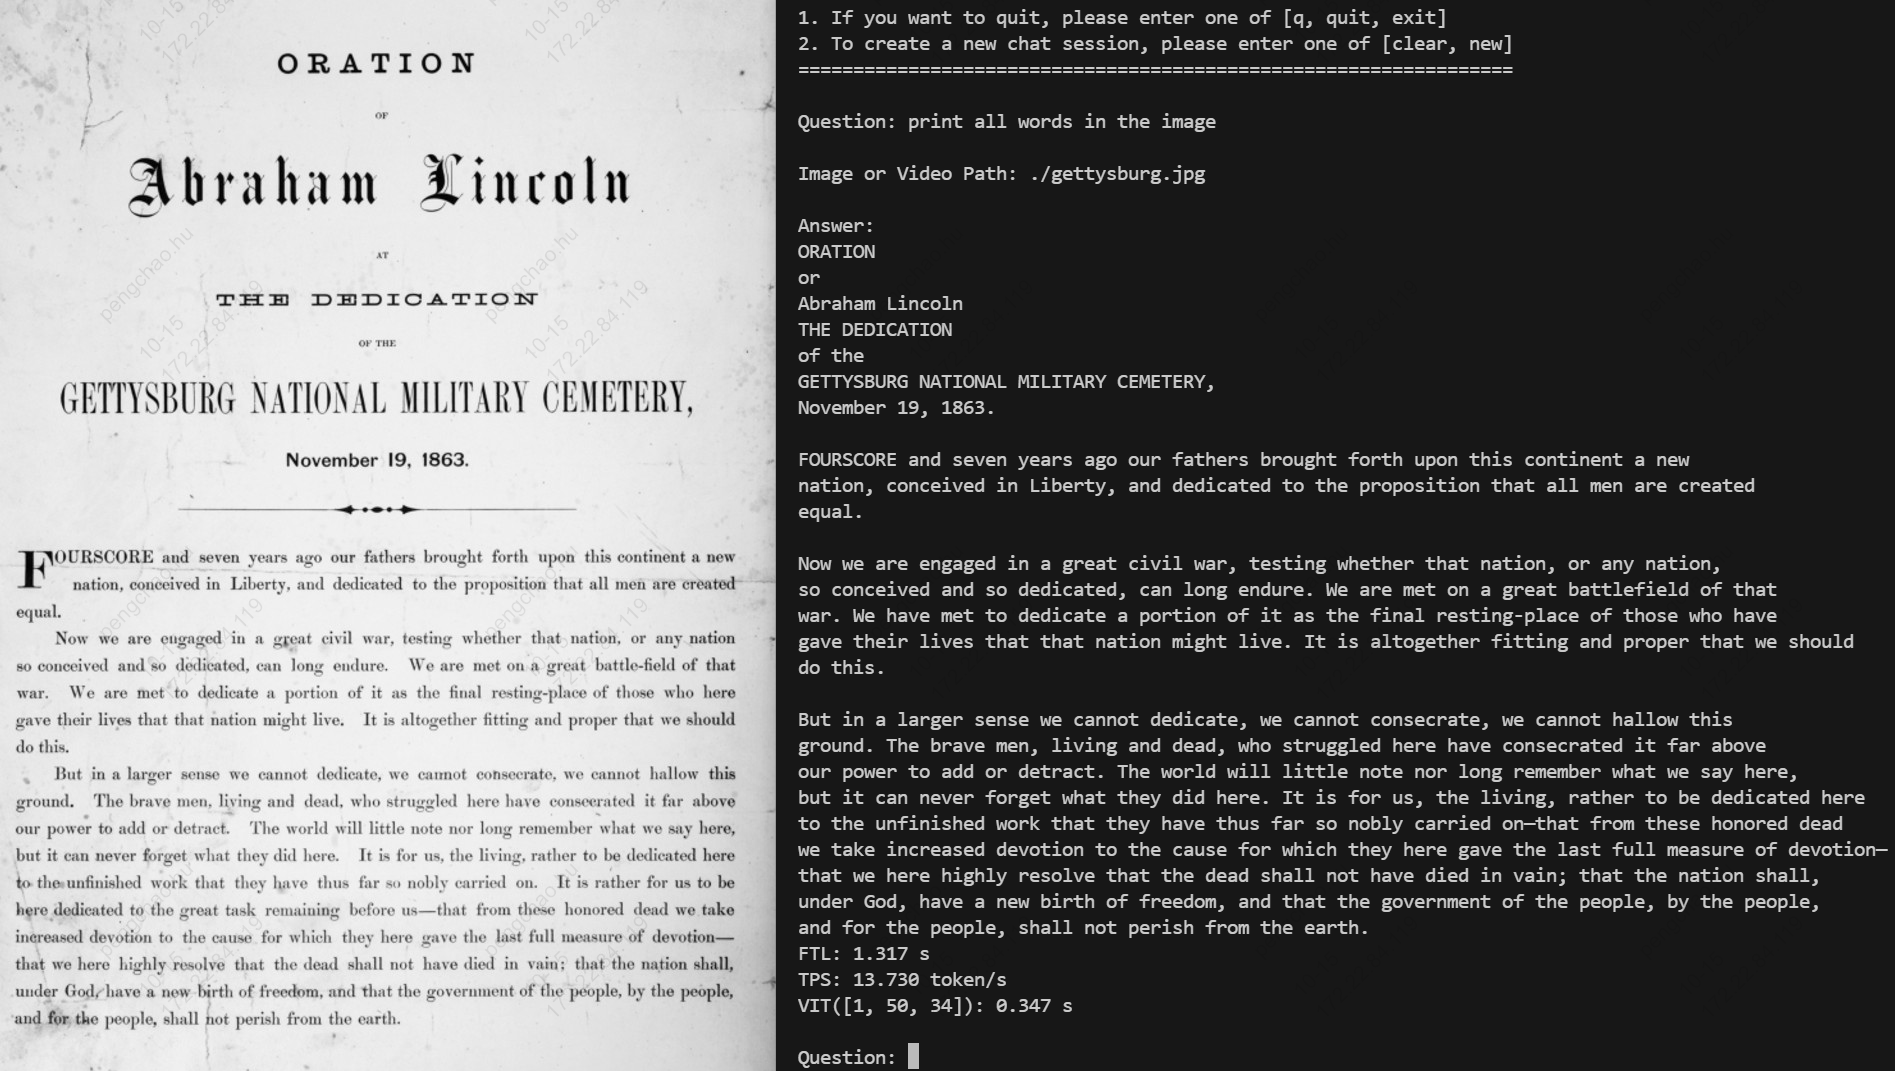
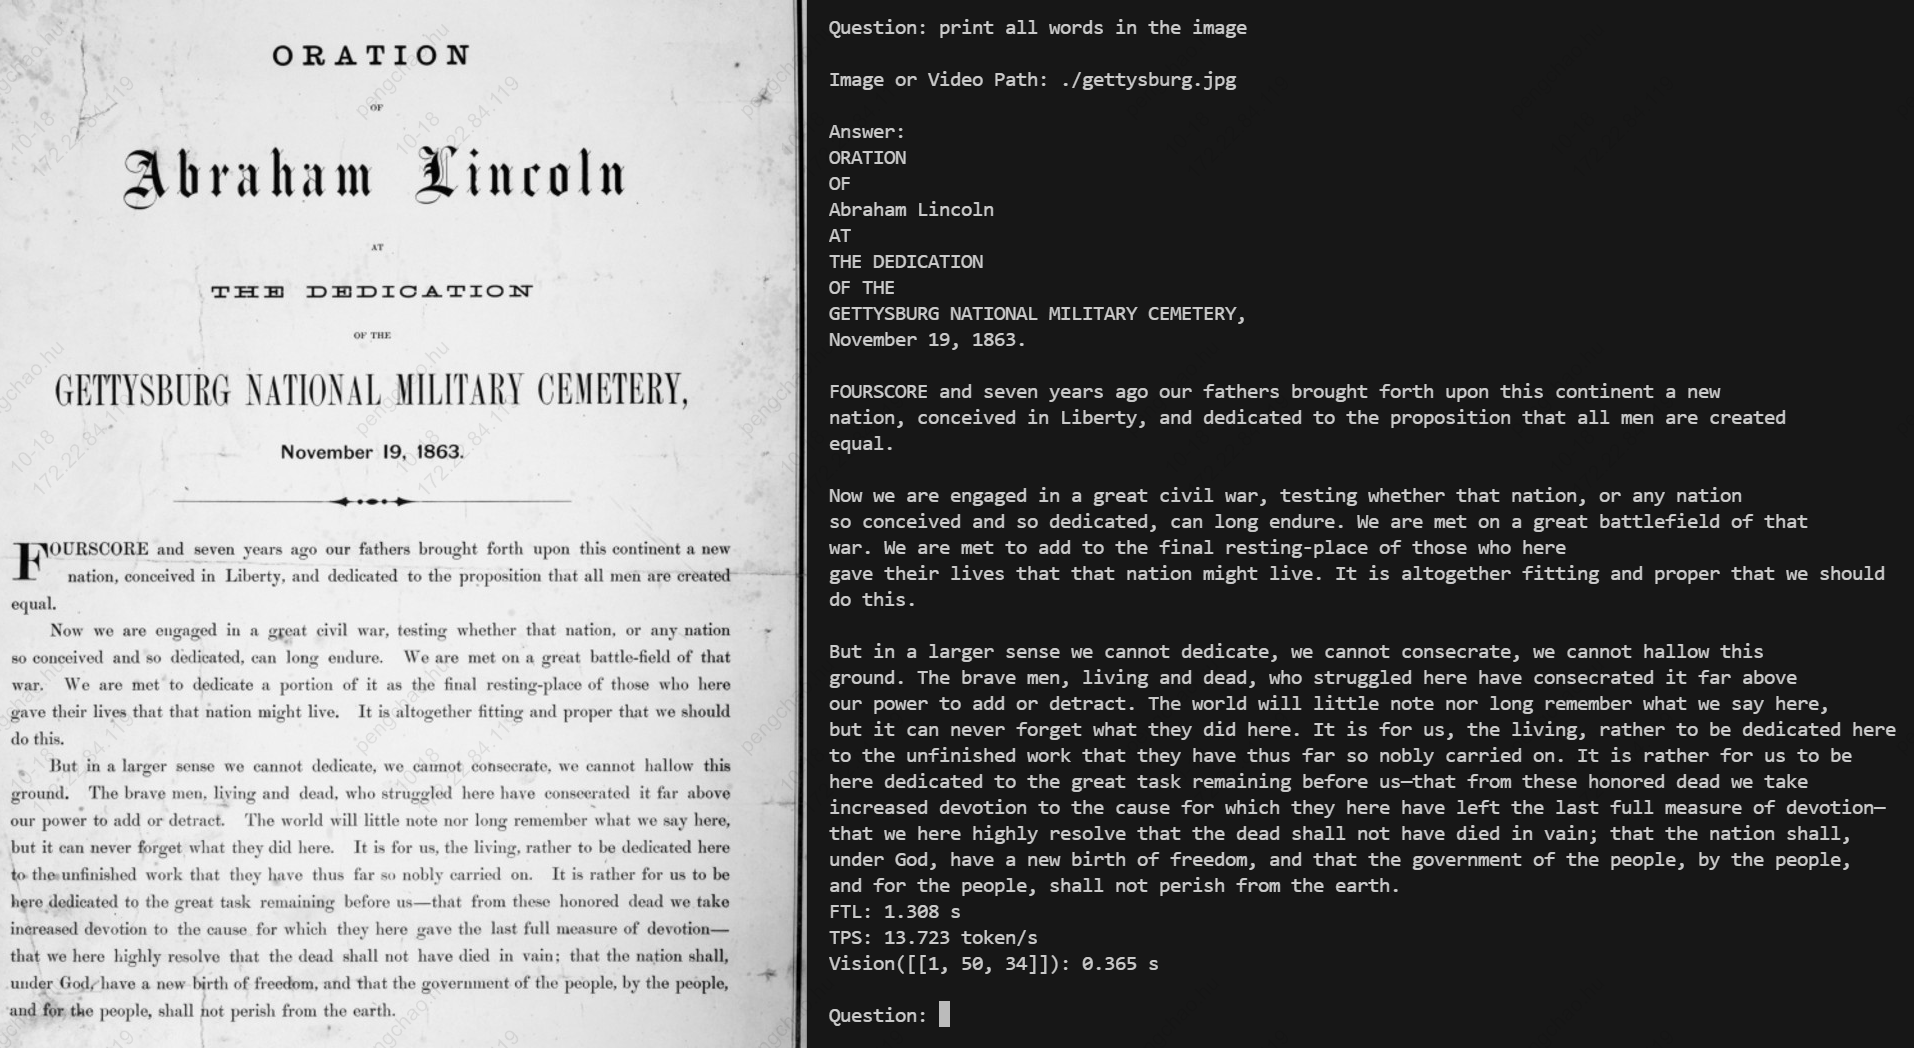
feat: Qwen3VL support video
- support video input

diff --git a/models/Qwen3_VL/python_demo/pipeline.py b/models/Qwen3_VL/python_demo/pipeline.py
@@ -70,7 +70,7 @@ class Qwen3_VL():
             "role": "user",
             "content": [
                 {"type": "video", "video": path, "fps": 1.0,
-                 "min_pixels": 64 * 32 * 32, "max_pixels": self.model.MAX_PIXELS // 4},
+                 "min_pixels": 64 * 32 * 32, "max_pixels": self.model.MAX_PIXELS},
                 {"type": "text", "text": self.input_str},
             ],
         }]
@@ -184,37 +184,39 @@ class Qwen3_VL():
 
         return idx_tensor, weight_tensor
 
-    def vit_process_image(self, inputs, vit_offset):
-        grid_thw = inputs.image_grid_thw
-        hidden_states = inputs.pixel_values
-        position_ids = self.rot_pos(grid_thw)
-        pos_ids, pos_weights = self.fast_pos_embed_interpolate(grid_thw.tolist())
-        self.model.forward_vit(hidden_states.numpy(), position_ids.numpy(), pos_ids.numpy(),
-                               pos_weights.numpy(), grid_thw.numpy(), vit_offset)
+    def vit_process_image(self, inputs):
+        vit_token_list = torch.where(inputs.input_ids == self.ID_VISION_START)[1].tolist()
+        pre_patches = 0
+        for idx, vit_offset in enumerate(vit_token_list):
+            grid_thw = inputs.image_grid_thw[idx].unsqueeze(0)
+            num_patches = int(torch.prod(grid_thw))
+            hidden_states = inputs.pixel_values[pre_patches:pre_patches + num_patches, :]
+            position_ids = self.rot_pos(grid_thw)
+            pos_ids, pos_weights = self.fast_pos_embed_interpolate(grid_thw.tolist())
+            self.model.forward_vit(hidden_states.numpy(), position_ids.numpy(), pos_ids.numpy(),
+                                   pos_weights.numpy(), grid_thw.numpy(), vit_offset + 1)
+            pre_patches += num_patches
 
-    def vit_process_video(self, inputs, vit_offset):
+    def vit_process_video(self, inputs):
+        vit_token_list = torch.where(inputs.input_ids == self.ID_VISION_START)[1].tolist()
         t, h, w = inputs.video_grid_thw.flatten().tolist()
+        assert (t == len(vit_token_list))
         grid_thw = torch.tensor([[1, h, w]], dtype=torch.int32)
         position_ids = self.rot_pos(grid_thw)
         pos_ids, pos_weights = self.fast_pos_embed_interpolate(grid_thw.tolist())
-        for i in range(t):
-            hidden_states = inputs.pixel_values_videos[(i * h * w):((i + 1) * h * w), :]
+        for idx, vit_offset in enumerate(vit_token_list):
+            hidden_states = inputs.pixel_values_videos[(idx * h * w):((idx + 1) * h * w), :]
             self.model.forward_vit(hidden_states.numpy(), position_ids.numpy(), pos_ids.numpy(),
-                                   pos_weights.numpy(), grid_thw.numpy(), vit_offset)
-            vit_offset += h * w // 4
+                                   pos_weights.numpy(), grid_thw.numpy(), vit_offset + 1)
 
     def get_rope_index(self, input_ids: torch.LongTensor, grid_thw: torch.LongTensor,
                        pad_id: int) -> torch.Tensor:
         total_input_ids = input_ids
-        attention_mask = torch.ones_like(total_input_ids)
-        position_ids = torch.ones(3, input_ids.shape[0], input_ids.shape[1], dtype=input_ids.dtype)
+        position_ids = torch.ones(3, input_ids.shape[0], input_ids.shape[1])
         image_index = 0
         for i, input_ids in enumerate(total_input_ids):
-            input_ids = input_ids[attention_mask[i] == 1]
-            image_nums = 0
             vision_start_indices = torch.argwhere(input_ids == self.ID_VISION_START).squeeze(1)
-            vision_tokens = input_ids[vision_start_indices + 1]
-            image_nums = (vision_tokens == pad_id).sum()
+            image_nums = len(vision_start_indices)
             input_tokens = input_ids.tolist()
             llm_pos_ids_list: list = []
             st = 0
@@ -224,34 +226,31 @@ class Qwen3_VL():
                     ed_image = input_tokens.index(pad_id, st)
                 else:
                     ed_image = len(input_tokens) + 1
-
-                t, h, w = (
-                    grid_thw[image_index][0],
-                    grid_thw[image_index][1],
-                    grid_thw[image_index][2],
-                )
-                second_per_grid_t = 0 if pad_id == self.ID_IMAGE_PAD else 1
+                if pad_id == self.ID_IMAGE_PAD:
+                    t, h, w = (
+                        grid_thw[image_index][0].item(),
+                        grid_thw[image_index][1].item(),
+                        grid_thw[image_index][2].item(),
+                    )
+                else:
+                    t, h, w = 1, grid_thw[0][1].item(), grid_thw[0][2].item()
                 image_index += 1
                 remain_images -= 1
                 ed = ed_image
 
                 llm_grid_t, llm_grid_h, llm_grid_w = (
-                    t.item(),
-                    h.item() // self.spatial_merge_size,
-                    w.item() // self.spatial_merge_size,
+                    t,
+                    h // self.spatial_merge_size,
+                    w // self.spatial_merge_size,
                 )
                 text_len = ed - st
 
                 st_idx = llm_pos_ids_list[-1].max() + 1 if len(llm_pos_ids_list) > 0 else 0
                 llm_pos_ids_list.append(torch.arange(text_len).view(1, -1).expand(3, -1) + st_idx)
 
-                range_tensor = torch.arange(llm_grid_t).view(-1, 1)
-                expanded_range = range_tensor.expand(-1, llm_grid_h * llm_grid_w)
-
-                time_tensor = expanded_range * second_per_grid_t * self.tokens_per_second
-
-                time_tensor_long = time_tensor.long()
-                t_index = time_tensor_long.flatten()
+                # t_index is always 0 because llm_grid_t is always 1 (we use timestamps to encode the temporal information for videos)
+                t_index = torch.arange(llm_grid_t).view(-1, 1).expand(-1, llm_grid_h *
+                                                                      llm_grid_w).flatten()
 
                 h_index = torch.arange(llm_grid_h).view(1, -1,
                                                         1).expand(llm_grid_t, -1,
@@ -269,8 +268,8 @@ class Qwen3_VL():
                 llm_pos_ids_list.append(torch.arange(text_len).view(1, -1).expand(3, -1) + st_idx)
 
             llm_positions = torch.cat(llm_pos_ids_list, dim=1).reshape(3, -1)
-            position_ids[..., i, attention_mask[i] == 1] = llm_positions
-        return position_ids
+            position_ids[..., i, :] = llm_positions
+        return position_ids.to(torch.int32)
 
     def forward_prefill(self, position_ids):
         if self.model.history_length == 0 or not self.support_history:
@@ -338,19 +337,17 @@ class Qwen3_VL():
             first_start = time.time()
             self.model.forward_embed(inputs.input_ids.squeeze(0).tolist())
             if media_type == "image":
-                vit_token_list = torch.where(inputs.input_ids == self.ID_VISION_START)[1].tolist()
-                vit_offset = vit_token_list[0] + 1
                 vit_start = time.time()
-                self.vit_process_image(inputs, vit_offset)
+                self.vit_process_image(inputs)
                 vit_end = time.time()
                 position_ids = self.get_rope_index(inputs.input_ids, inputs.image_grid_thw,
                                                    self.ID_IMAGE_PAD)
                 self.max_posid = int(position_ids.max())
                 token = self.forward_prefill(position_ids.numpy())
             elif media_type == "video":
-                vit_token_list = torch.where(inputs.input_ids == self.ID_VISION_START)[1].tolist()
-                vit_offset = vit_token_list[0] + 1
-                self.vit_process_video(inputs, vit_offset)
+                vit_start = time.time()
+                self.vit_process_video(inputs)
+                vit_end = time.time()
                 position_ids = self.get_rope_index(inputs.input_ids, inputs.video_grid_thw,
                                                    self.ID_VIDEO_PAD)
                 self.max_posid = int(position_ids.max())
@@ -389,7 +386,9 @@ class Qwen3_VL():
             print(f"\nFTL: {first_duration:.3f} s")
             print(f"TPS: {tps:.3f} token/s")
             if media_type == "image":
-                print(f"VIT({inputs.image_grid_thw.tolist()[0]}): {vit_end - vit_start:.3f} s")
+                print(f"Vision({inputs.image_grid_thw.tolist()}): {vit_end - vit_start:.3f} s")
+            elif media_type == "video":
+                print(f"Vision({inputs.video_grid_thw.tolist()}): {vit_end - vit_start:.3f} s")
 
 
 def main(args):

diff --git a/models/Qwen3_VL/python_demo/chat.cpp b/models/Qwen3_VL/python_demo/chat.cpp
@@ -55,7 +55,7 @@ public:
   void deinit();
   void forward_embed(ArrayInt const &tokens);
   void forward_vit(ArrayFloat const &pixel_values, ArrayInt const &position_ids,
-                   ArrayFloat const &pos_idx, ArrayFloat const &pos_weight,
+                   ArrayInt const &pos_idx, ArrayFloat const &pos_weight,
                    ArrayInt const &grid_thw, int vit_offset);
   int forward_first(ArrayInt const &position_ids);
   int forward_next(ArrayInt const &position_ids);
@@ -439,7 +439,7 @@ void Qwen3_VL::forward_embed(ArrayInt const &tokens) {
 
 void Qwen3_VL::forward_vit(ArrayFloat const &pixel_values,
                            ArrayInt const &position_ids,
-                           ArrayFloat const &pos_idx,
+                           ArrayInt const &pos_idx,
                            ArrayFloat const &pos_weight,
                            ArrayInt const &grid_thw, int vit_offset) {
   auto p_grid_thw = grid_thw.request();
@@ -575,7 +575,7 @@ int Qwen3_VL::forward_first(ArrayInt const &position_ids) {
     if (vit_run && (idx < num_deepstack)) {
       add_launch_dyn(out_mem, deepstack_buffers[idx],
                      net_add->stages[0].output_mems[0],
-                     token_length * HIDDEN_SIZE * sizeof(uint16_t));
+                     token_length * HIDDEN_SIZE);
       out_mem = net_add->stages[0].output_mems[0];
     }
     bm_memcpy_d2d_byte(bm_handle, past_key[idx], 0,

diff --git a/README.md b/README.md
@@ -15,7 +15,7 @@
 
 # 最近更新！ 🔥🔥🔥
 
-- **2025.10.15**：🚀 **Qwen3VL** BM1684X/1688已支持，详情见[Qwen3VL](./models/Qwen3_VL/)。
+- **2025.10.15**：🚀 **Qwen3VL** BM1684X/1688已支持，详情见[Qwen3VL](./models/Qwen3_VL/)。支持图片和视频。
 - **2025.05.22**：🚀 **InternVL3** BM1684X/1688已支持，详情见[InternVL3](./models/InternVL3/)。支持图片和视频。
 - **2025.04.30**：🚀 **Qwen2.5VL** BM1684X/1688已支持，详情见[Qwen2.5VL](./models/Qwen2_5_VL/)。其中demo有python和c++两个版本，且都支持图片和视频。
 - **2025.04.29**：🚀 Qwen最新推理模型**Qwen3**，BM1684X/1688已支持，详情见[Qwen3 Demo](./models/Qwen3/)。
